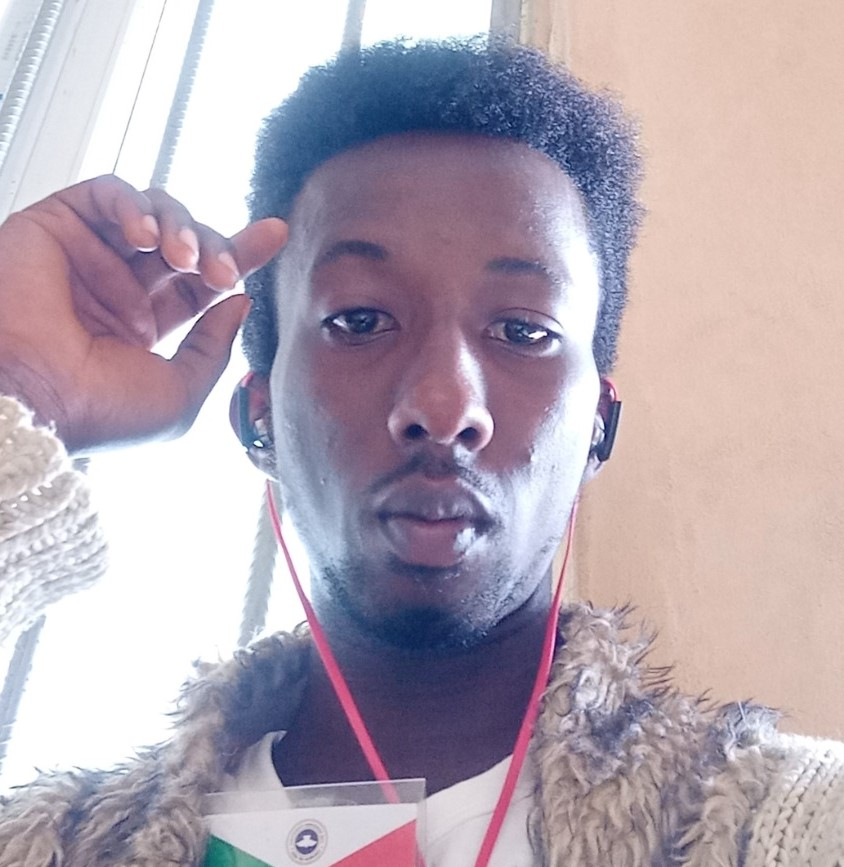
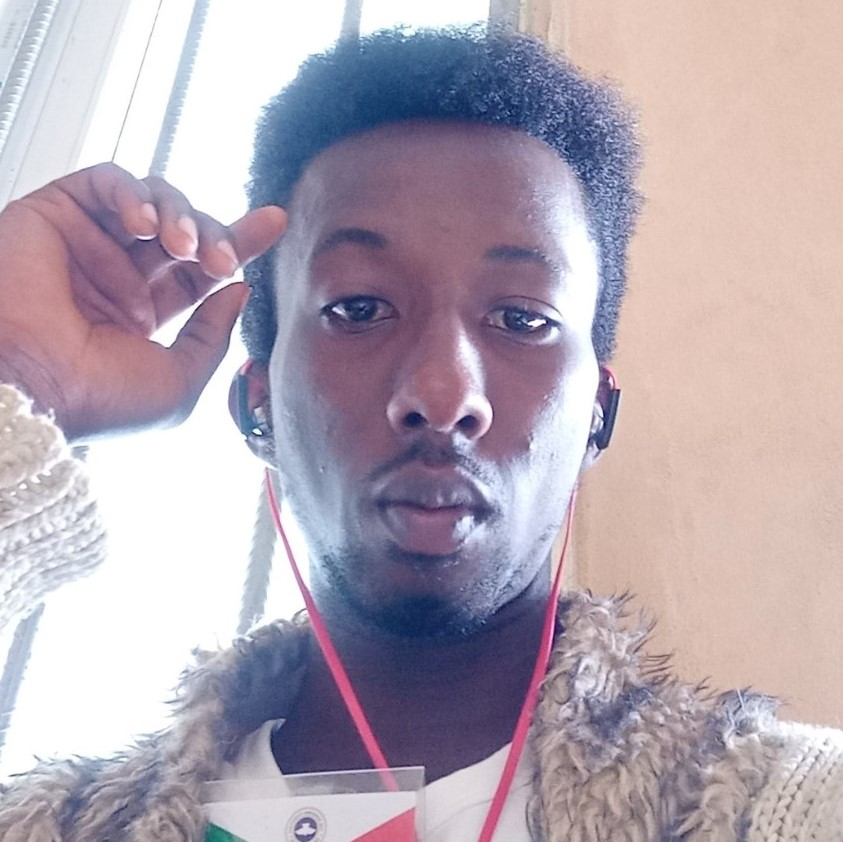
testimonials image and style updates

diff --git a/index.html b/index.html
@@ -318,7 +318,7 @@ https://templatemo.com/tm-581-kind-heart-charity
 
                                         <div class="carousel-item" data-bs-interval="35000">
                                             <div class="carousel-caption">
-                                                <h4 class="carousel-title">Cloud Heroes Africa has helped me to learn everything I know about the cloud, especially AWS cloud. They have helped be to become an inquirer, searching for knowledge about AWS cloud services and how to use these services to build cloud solutions for businesses. With Cloud Heroes Africa I have become a life long learner, as I keep developing myself professionally each day using the amazing resources it provides on different platforms like Discord, Whatsapp, LinkedIn, just to name a few. Thanks to them, I am a AWS Certified Cloud Practitioner and I am currently working to become a AWS Certified Solutions Architect Associate.</h4>
+                                                <h4 class="carousel-title">Cloud Heroes Africa has helped me to learn everything I know about the cloud, especially AWS cloud. They have helped be to become an inquirer, searching for knowledge about AWS Cloud services and how to use these services to build Cloud solutions for businesses. With Cloud Heroes Africa I have become a life long learner, as I keep developing myself professionally each day using the amazing resources they provide. Thanks to them, I am a AWS Certified Cloud Practitioner and I am currently working to become a AWS Certified Solutions Architect Associate.</h4>
 
                                                 <small class="carousel-name"><span class="carousel-name-title">Sylvia Ngum</span>, Cameroon</small>
                                             </div>
@@ -326,9 +326,9 @@ https://templatemo.com/tm-581-kind-heart-charity
 
                                         <div class="carousel-item">
                                             <div class="carousel-caption">
-                                                <h4 class="carousel-title">Sed leo nisl, posuere at molestie ac, suscipit auctor mauris quis metus tempor orci</h4>
+                                                <h4 class="carousel-title">Before joining Cloud Heroes Africa, I did not even know anything about Cloud computing but with the tutoring, mentoring and provision of countless resources by the professors, I am now an AWS Certified Solutions Architect Associate and specializing in Serverless Architectures. I am eternally grateful to the entire family at Cloud Heroes Africa.</h4>
 
-                                                <small class="carousel-name"><span class="carousel-name-title">Bob</span>, Entreprenuer</small>
+                                                <small class="carousel-name"><span class="carousel-name-title">Kelvin Tangaw</span>, Cameroon</small>
                                            </div>
                                         </div>
                                  </div>
@@ -346,7 +346,7 @@ https://templatemo.com/tm-581-kind-heart-charity
                                     </li>
 
                                     <li data-bs-target="#student-testimonial-carousel" data-bs-slide-to="3" class="">
-                                         <img src="images/testimonials/place-holder.jpeg" class="img-fluid rounded-circle avatar-image" alt="avatar">
+                                         <img src="images/testimonials/kelvin.jpg" class="img-fluid rounded-circle avatar-image" alt="avatar">
                                     </li>
                                </ol>
 

diff --git a/css/cha.css b/css/cha.css
@@ -1032,6 +1032,7 @@ blockquote::before {
 #testimonial-carousel .carousel-title {
   line-height: 1.4em;
   margin-bottom: 30px;
+  font-family: var(--body-font-family) !important;
 }
 
 #testimonial-carousel .carousel-title::before {
@@ -1039,7 +1040,7 @@ blockquote::before {
   color: var(--p-color);
   font-size: var(--h4-font-size);
   position: relative;
-  top: 5px;
+  top: 0;
   right: 5px;
 }
 
@@ -1048,7 +1049,7 @@ blockquote::before {
   color: var(--p-color);
   font-size: var(--h4-font-size);
   position: relative;
-  top: 5px;
+  top: 0;
   left: 5px;
 }
 
@@ -1116,7 +1117,7 @@ blockquote::before {
 #student-testimonial-carousel .carousel-title {
   line-height: 1.4em;
   margin-bottom: 30px;
-  text-transform: none !important;
+  font-family: var(--body-font-family) !important;
 }
 
 #student-testimonial-carousel .carousel-title::before {
@@ -1124,7 +1125,7 @@ blockquote::before {
   color: var(--p-color);
   font-size: var(--h4-font-size);
   position: relative;
-  top: 5px;
+  top: 0;
   right: 5px;
 }
 
@@ -1133,7 +1134,7 @@ blockquote::before {
   color: var(--p-color);
   font-size: var(--h4-font-size);
   position: relative;
-  top: 5px;
+  top: 0;
   left: 5px;
 }
 
